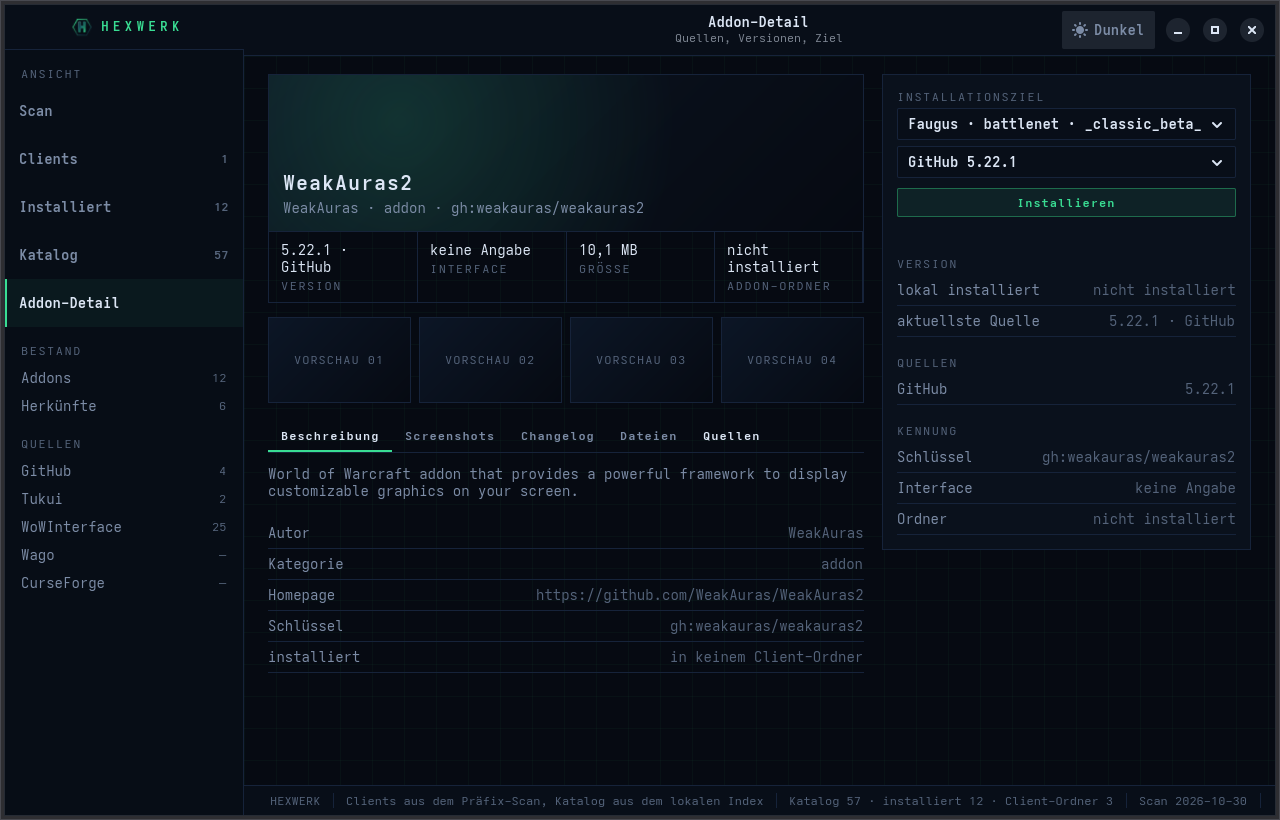
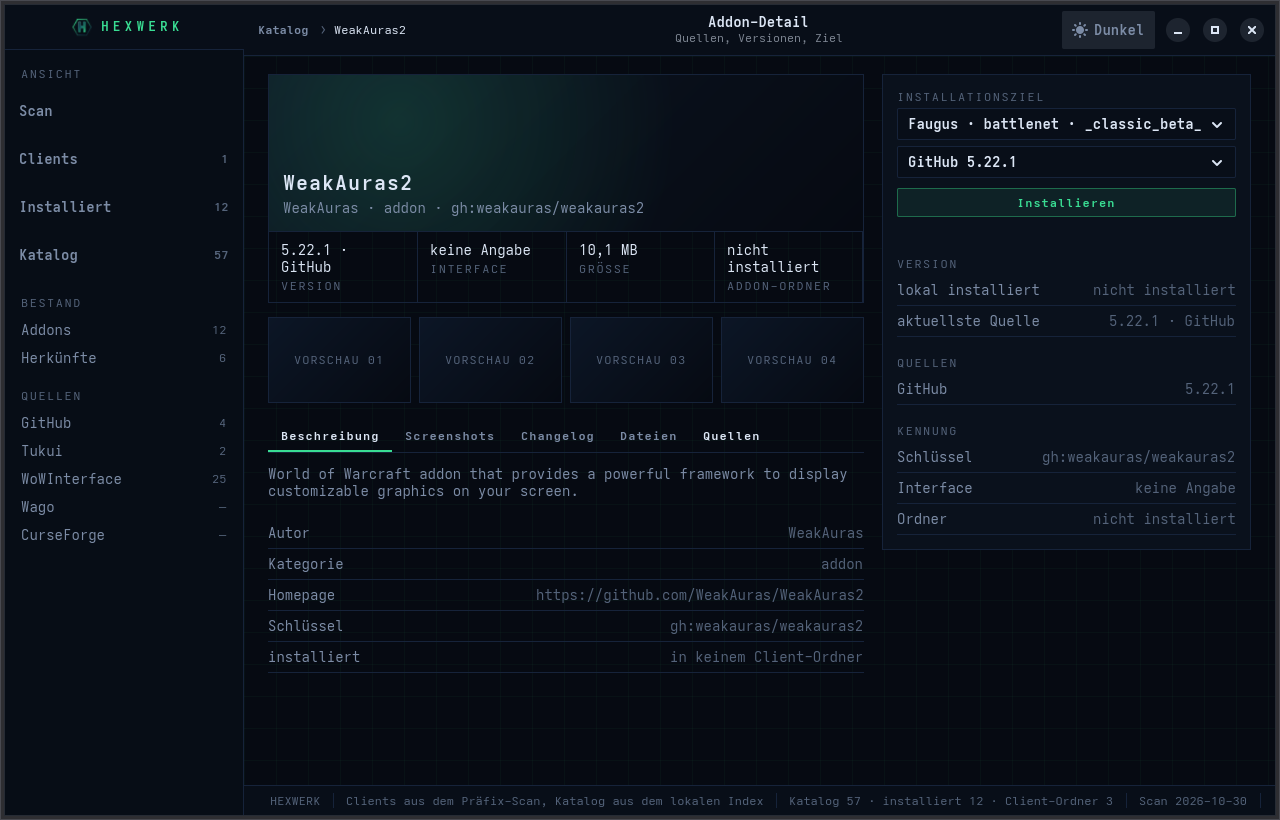
Farbumschalter repariert (Theme wurde zu frueh freigegeben), Brotkrumen statt Detail-Eintrag in der Leiste

Changed region(s): [[0.0, 0.3659, 0.0938, 0.6707], [0.2188, 0.0305, 0.3125, 0.061], [0.0312, 0.7012, 0.0938, 0.7317]]

diff --git a/data/theme.css b/data/theme.css
@@ -744,3 +744,29 @@ window.hw-window .hw-header {
 .hw-brand {
   padding-left: 2px;
 }
+
+/* Brotkrumen in der Kopfleiste: "Katalog › Addon". Der erste Teil ist ein
+   Knopf, damit der Rueckweg sichtbar und mit der Tastatur erreichbar ist. */
+.hw-crumb {
+  margin-left: 4px;
+}
+
+button.hw-crumb-link {
+  background: none;
+  background-image: none;
+  border: 0;
+  box-shadow: none;
+  padding: 2px 4px;
+  color: var(--hw-dim);
+  font-size: 12px;
+}
+
+button.hw-crumb-link:hover {
+  color: var(--hw-signal);
+  background-color: transparent;
+}
+
+.hw-crumb-here {
+  color: var(--hw-ink);
+  font-size: 12px;
+}

diff --git a/crates/ui-gtk/src/app.rs b/crates/ui-gtk/src/app.rs
@@ -85,6 +85,14 @@ struct Ui {
     /// Nummer des laufenden Indexaufbaus. Meldungen eines ueberholten Laufs
     /// werden verworfen, sonst ueberschreibt ein alter Lauf den neuen Zustand.
     pipeline: Cell<u64>,
+    /// Muss am Leben bleiben: der Umschalter haelt nur schwache Verweise auf
+    /// das Theme. Faellt der starke Verweis weg, reagiert das Menue nicht mehr.
+    /// Der Unterstrich sagt dem Compiler, dass hier absichtlich nichts gelesen
+    /// wird: der Wert existiert nur, um zu leben.
+    _theme: Rc<Theme>,
+    /// Brotkrumen in der Kopfleiste: Weg zurueck in den Katalog.
+    crumb: gtk::Box,
+    crumb_name: gtk::Label,
 }
 
 pub fn run() -> glib::ExitCode {
@@ -145,6 +153,31 @@ pub fn build_window(app: &adw::Application) -> adw::ApplicationWindow {
     back.set_visible(false);
     crate::theme::pointer(&back);
     header.pack_start(&back);
+
+    // Brotkrumen: auf der Detailseite steht hier der Weg zurueck in den
+    // Katalog. Die Detailseite ist keine eigene Ansicht in der Leiste mehr,
+    // deshalb braucht sie diesen Weg.
+    let crumb = gtk::Box::new(gtk::Orientation::Horizontal, 6);
+    crumb.add_css_class("hw-crumb");
+    crumb.set_visible(false);
+    let crumb_root = gtk::Button::with_label("Katalog");
+    crumb_root.add_css_class("hw-crumb-link");
+    crate::theme::pointer(&crumb_root);
+    let crumb_sep = gtk::Label::new(Some("›"));
+    crumb_sep.add_css_class("hw-dim2");
+    let crumb_name = gtk::Label::new(Some(""));
+    crumb_name.add_css_class("hw-crumb-here");
+    crumb.append(&crumb_root);
+    crumb.append(&crumb_sep);
+    crumb.append(&crumb_name);
+    // Der Rueckweg haengt am Thread-Platz, weil `ui` erst nach dem Aufbau des
+    // Fensters existiert; geklickt wird ohnehin spaeter.
+    crumb_root.connect_clicked(|_| {
+        if let Some(ui) = UI.with(|slot| slot.borrow().clone()) {
+            show_page(&ui, "catalog");
+        }
+    });
+    header.pack_start(&crumb);
 
     let switcher = theme.switcher();
     header.pack_end(&switcher);
@@ -242,6 +275,9 @@ pub fn build_window(app: &adw::Application) -> adw::ApplicationWindow {
         index: RefCell::new(None),
         index_sources: RefCell::new(Vec::new()),
         pipeline: Cell::new(0),
+        _theme: theme,
+        crumb,
+        crumb_name,
     });
 
     wire(&ui);
@@ -357,12 +393,26 @@ pub fn show_screen(name: &str) {
 pub fn show_local_detail(detail: &crate::detail_view::LocalDetail) {
     if let Some(ui) = UI.with(|slot| slot.borrow().clone()) {
         ui.detail.show_local(detail);
+        set_crumb(
+            &ui,
+            if detail.title.is_empty() {
+                &detail.folder
+            } else {
+                &detail.title
+            },
+        );
         show_page(&ui, "detail");
     }
 }
 
 /// Bildschirm zeigen und Leiste nachziehen. Idempotent, damit Aufrufe aus
 /// Rueckrufen und aus der Leiste sich nicht im Kreis drehen.
+/// Brotkrumen setzen: der Weg zurueck in den Katalog nennt das offene Addon.
+fn set_crumb(ui: &Ui, name: &str) {
+    ui.crumb_name.set_text(name);
+    ui.crumb.set_visible(true);
+}
+
 fn show_page(ui: &Rc<Ui>, name: &str) {
     if ui.stack.visible_child_name().as_deref() != Some(name) {
         ui.stack.set_visible_child_name(name);
@@ -382,6 +432,8 @@ fn show_page(ui: &Rc<Ui>, name: &str) {
                 .update_state(&[gtk::accessible::State::Selected(Some(false))]);
         }
     }
+    // Brotkrumen nur dort, wo es einen Rueckweg gibt.
+    ui.crumb.set_visible(name == "detail");
     ui.split.set_show_content(true);
 }
 
@@ -534,6 +586,7 @@ fn open_item(ui: &Rc<Ui>, id: i64) {
         Ok(Some(item)) => {
             let targets = detail_targets(ui, &item);
             ui.detail.show_item(&item, &targets);
+            set_crumb(ui, &item.name);
             show_page(ui, "detail");
         }
         Ok(None) => toast(ui, "Der Eintrag steht nicht mehr im Index."),
@@ -602,6 +655,14 @@ fn open_installed(ui: &Rc<Ui>, request: OpenRequest) {
         Some(id) => open_item(ui, id),
         None => {
             ui.detail.show_local(&request.local);
+            set_crumb(
+                ui,
+                if request.local.title.is_empty() {
+                    &request.local.folder
+                } else {
+                    &request.local.title
+                },
+            );
             show_page(ui, "detail");
         }
     }
@@ -775,6 +836,12 @@ fn build_rail() -> (gtk::Box, Vec<NavItem>, Counts, Vec<(Source, gtk::Label)>) {
     nav_catalog.set_xalign(1.0);
 
     for (name, title, _) in PAGES {
+        // Die Detailseite haengt an einer Auswahl, nicht an der Leiste: sie
+        // wird aus Katalog oder Installiert geoeffnet und ueber die Brotkrumen
+        // wieder verlassen.
+        if name == "detail" {
+            continue;
+        }
         let label = gtk::Label::new(Some(title));
         label.add_css_class("hw-nav-label");
         label.set_xalign(0.0);
